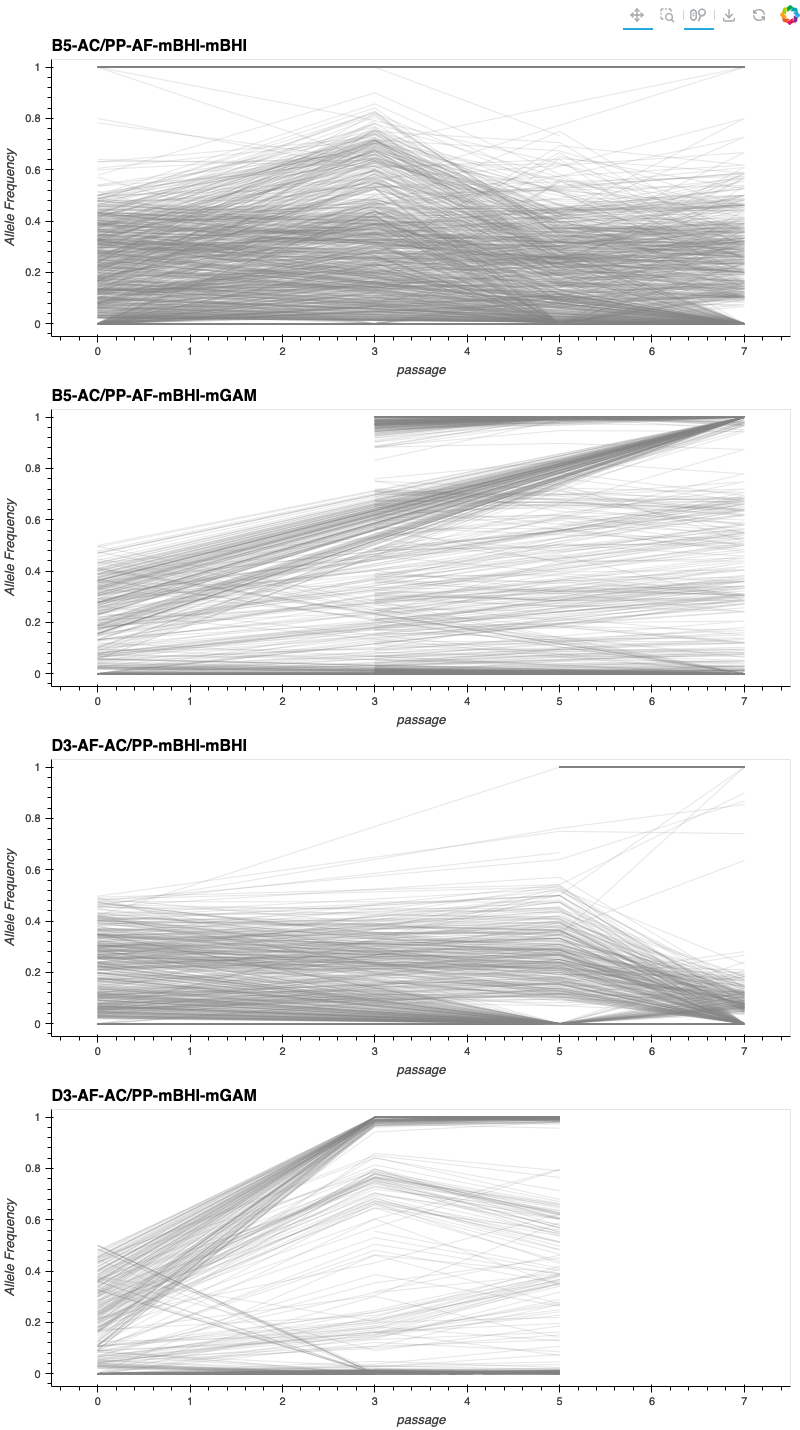
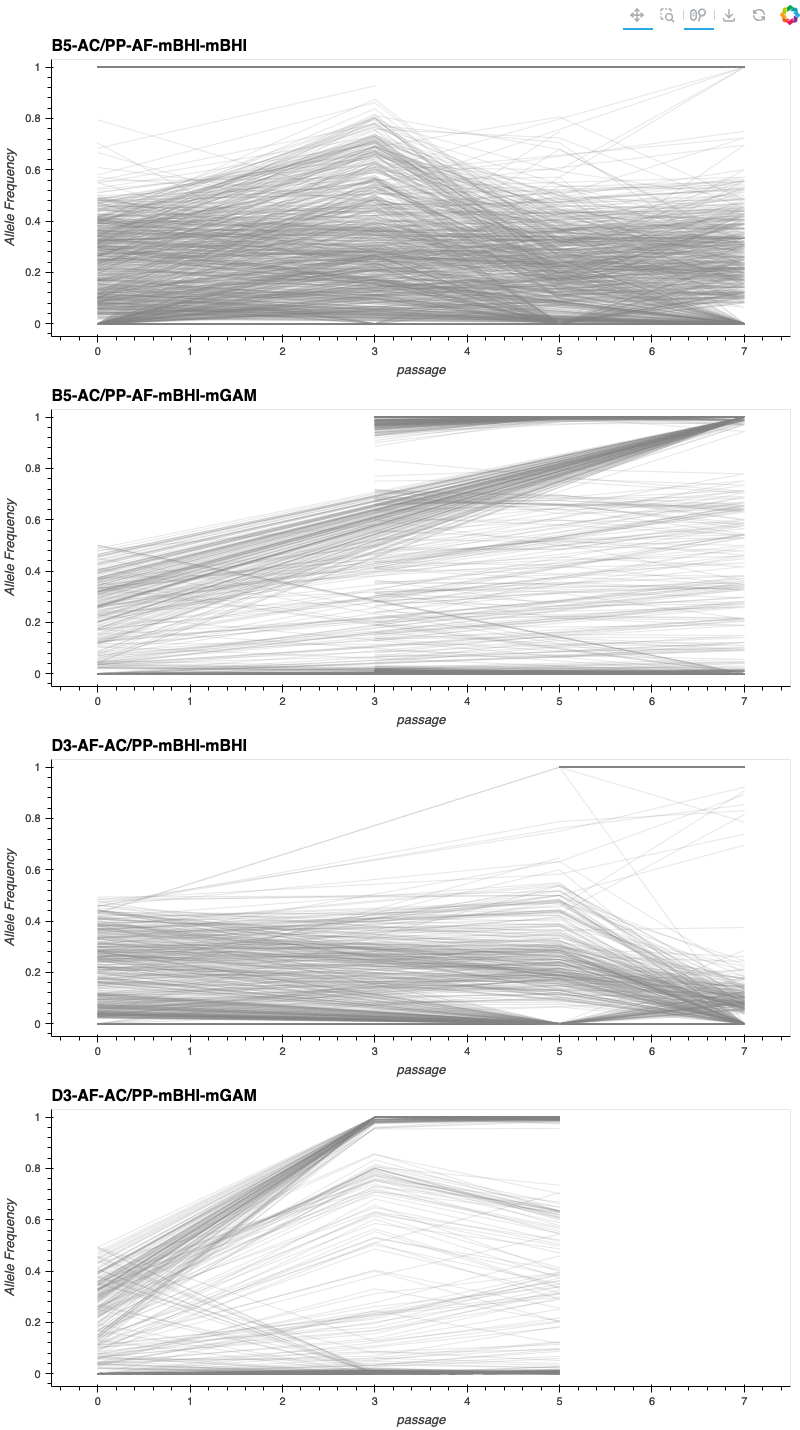
fun stuff

diff --git a/workflow/scripts/track_snps.py b/workflow/scripts/track_snps.py
@@ -26,12 +26,13 @@ def get_frequency_parent(freq_children, parent_snps):
 
 
 def get_parent_children(inoculumn):
-    metadata = pd.read_csv('config/e003_coal_metadata_full.csv')
+    metadata = pd.read_csv('config/e003_metadata_cultures_round2.csv')
     child_samples = list(metadata.loc[metadata['inoculumn'] == inoculumn, 'sample'].values)
     parent_subjects = inoculumn.split('-')[:-1]
     parent_media = inoculumn.split('-')[-1]
     ins = metadata.loc[metadata['is_inoculumn'],:]
     ins = ins.loc[ins['parent_media'] == parent_media,:]
+    print(ins)
     ins1 = ins.loc[ins['parent_subjects'] == parent_subjects[0] + '-' +  parent_subjects[0],:]
 
     ins2 = ins.loc[ins['parent_subjects'] == parent_subjects[1] + '-' +  parent_subjects[1],:]
@@ -121,6 +122,8 @@ if __name__ == '__main__':
     for inoculumn in inoculumn_list:
         print(inoculumn)
         parent_samples, child_samples = get_parent_children(inoculumn)
+        print(parent_samples)
+#        print(freq_filtered.columns.values)
         parent_samples = list(np.intersect1d(parent_samples, freq_filtered.columns.values))
         child_samples = list(np.intersect1d(child_samples, freq_filtered.columns.values))
         _, freq_filtered_in = filter_sites_across_samples(depth_filtered[parent_samples + child_samples], freq_filtered[parent_samples + child_samples].copy(), )
